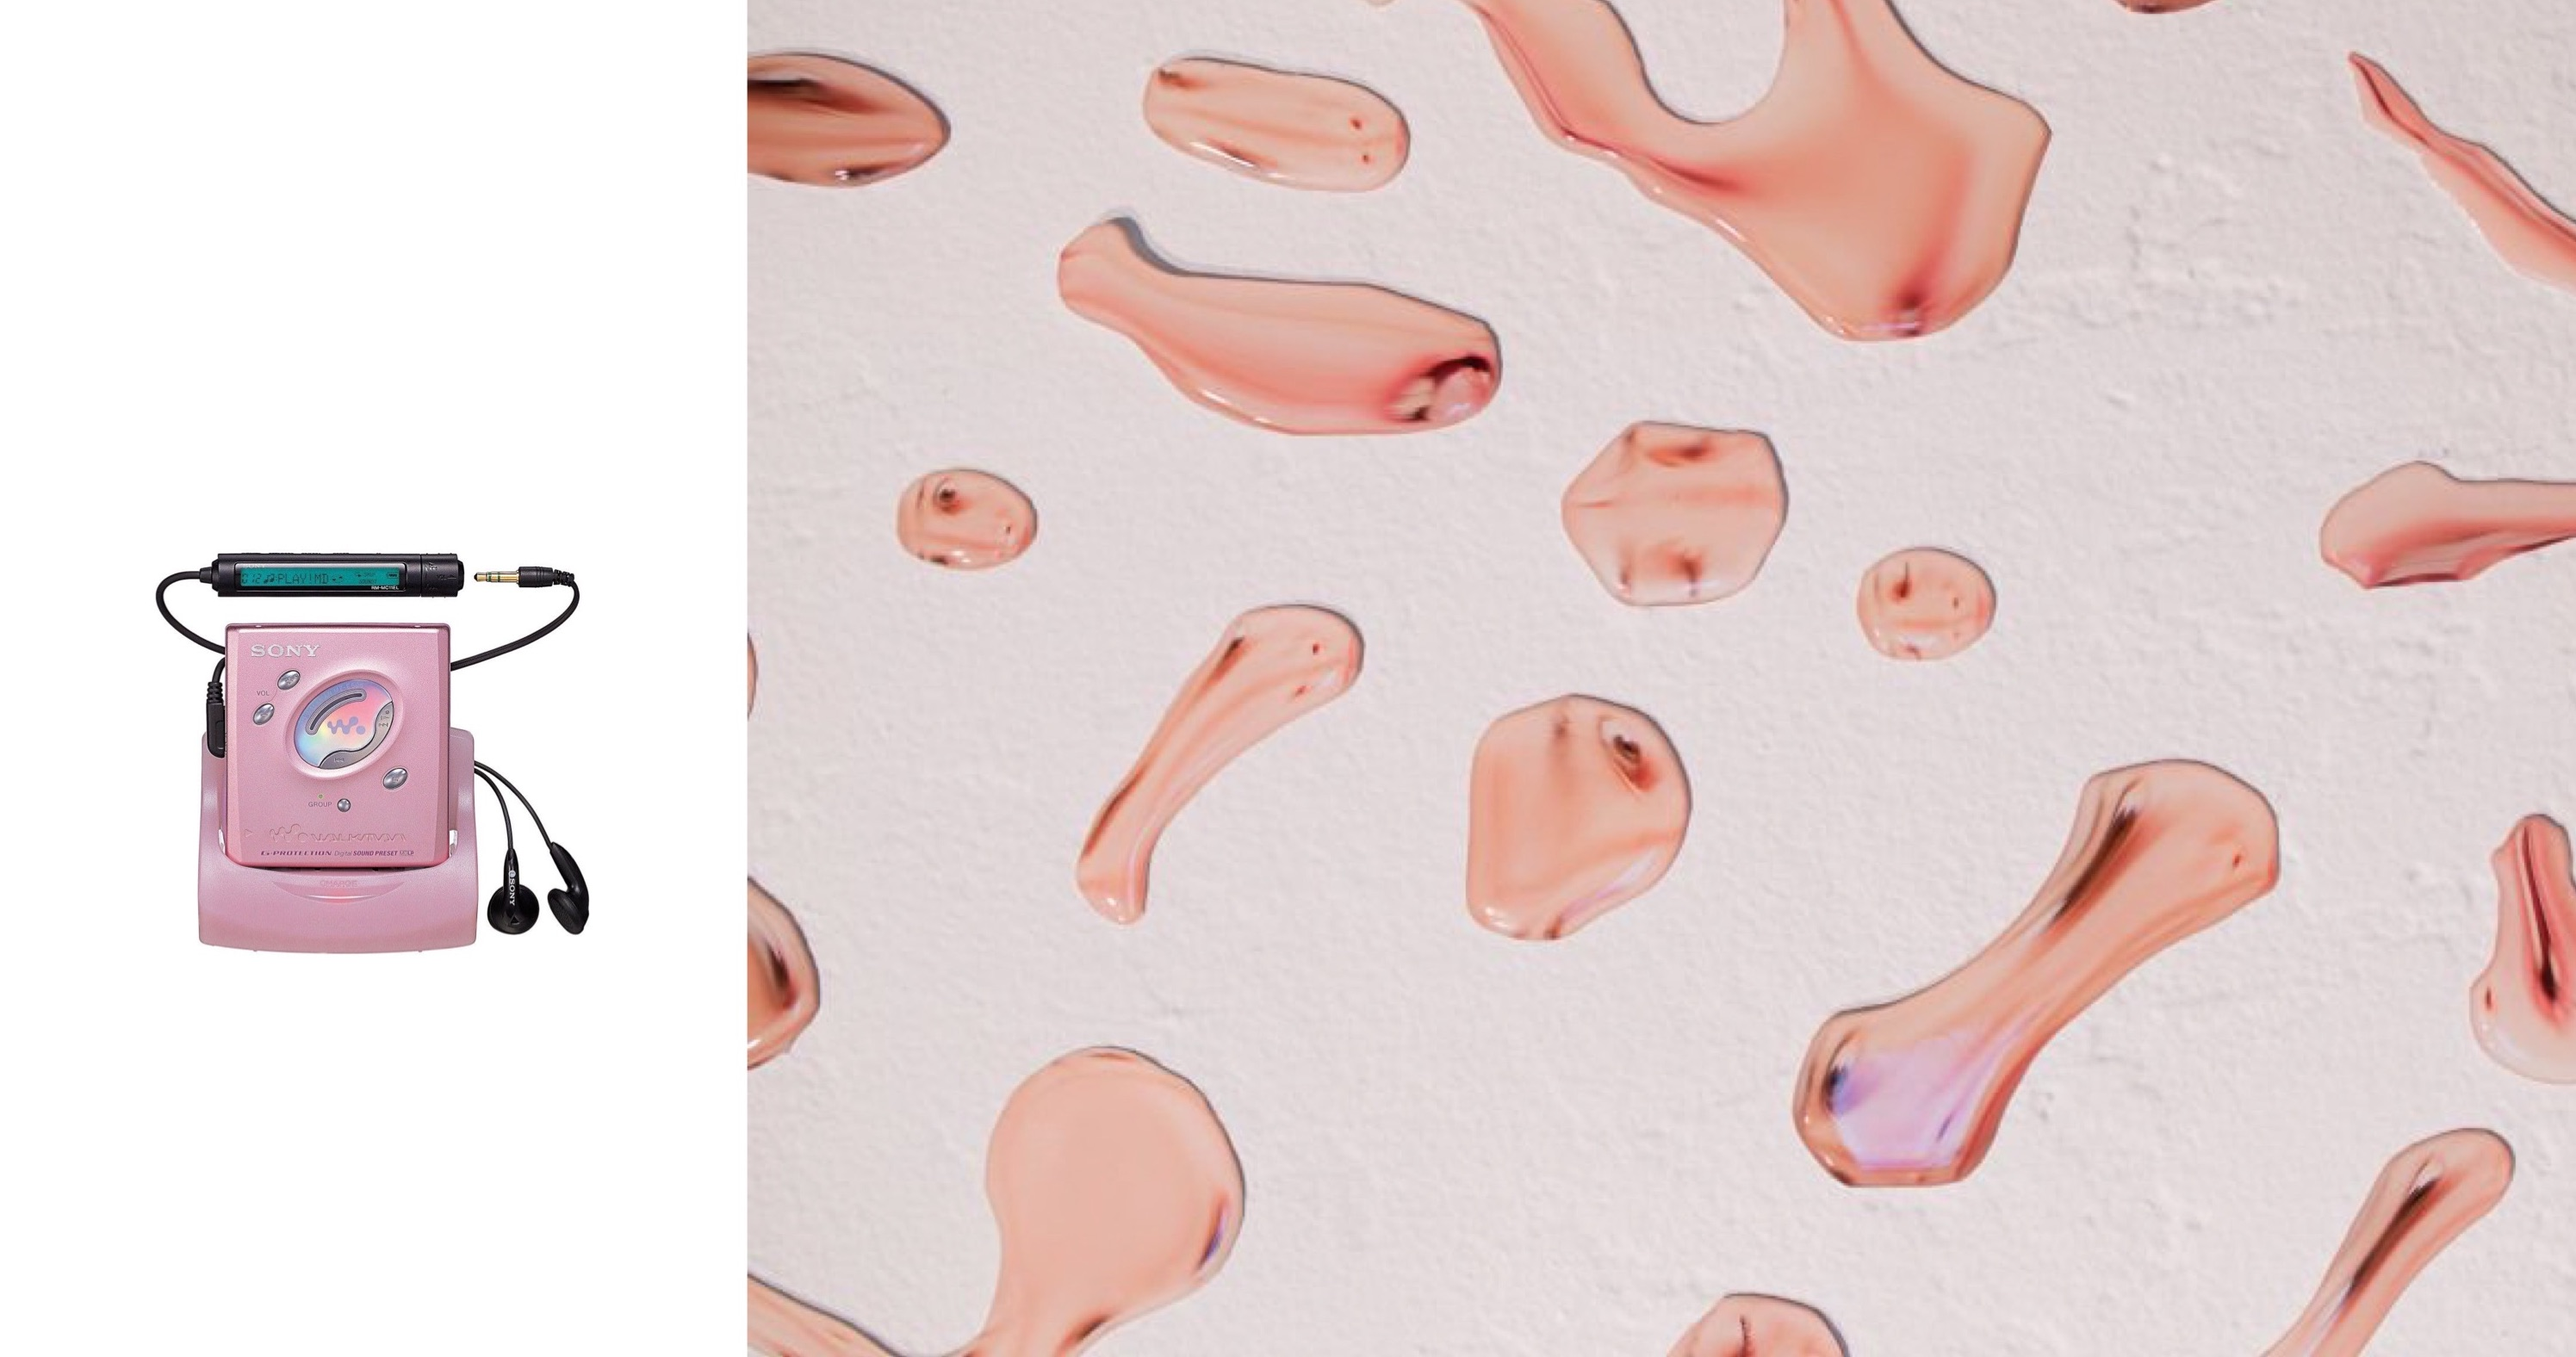
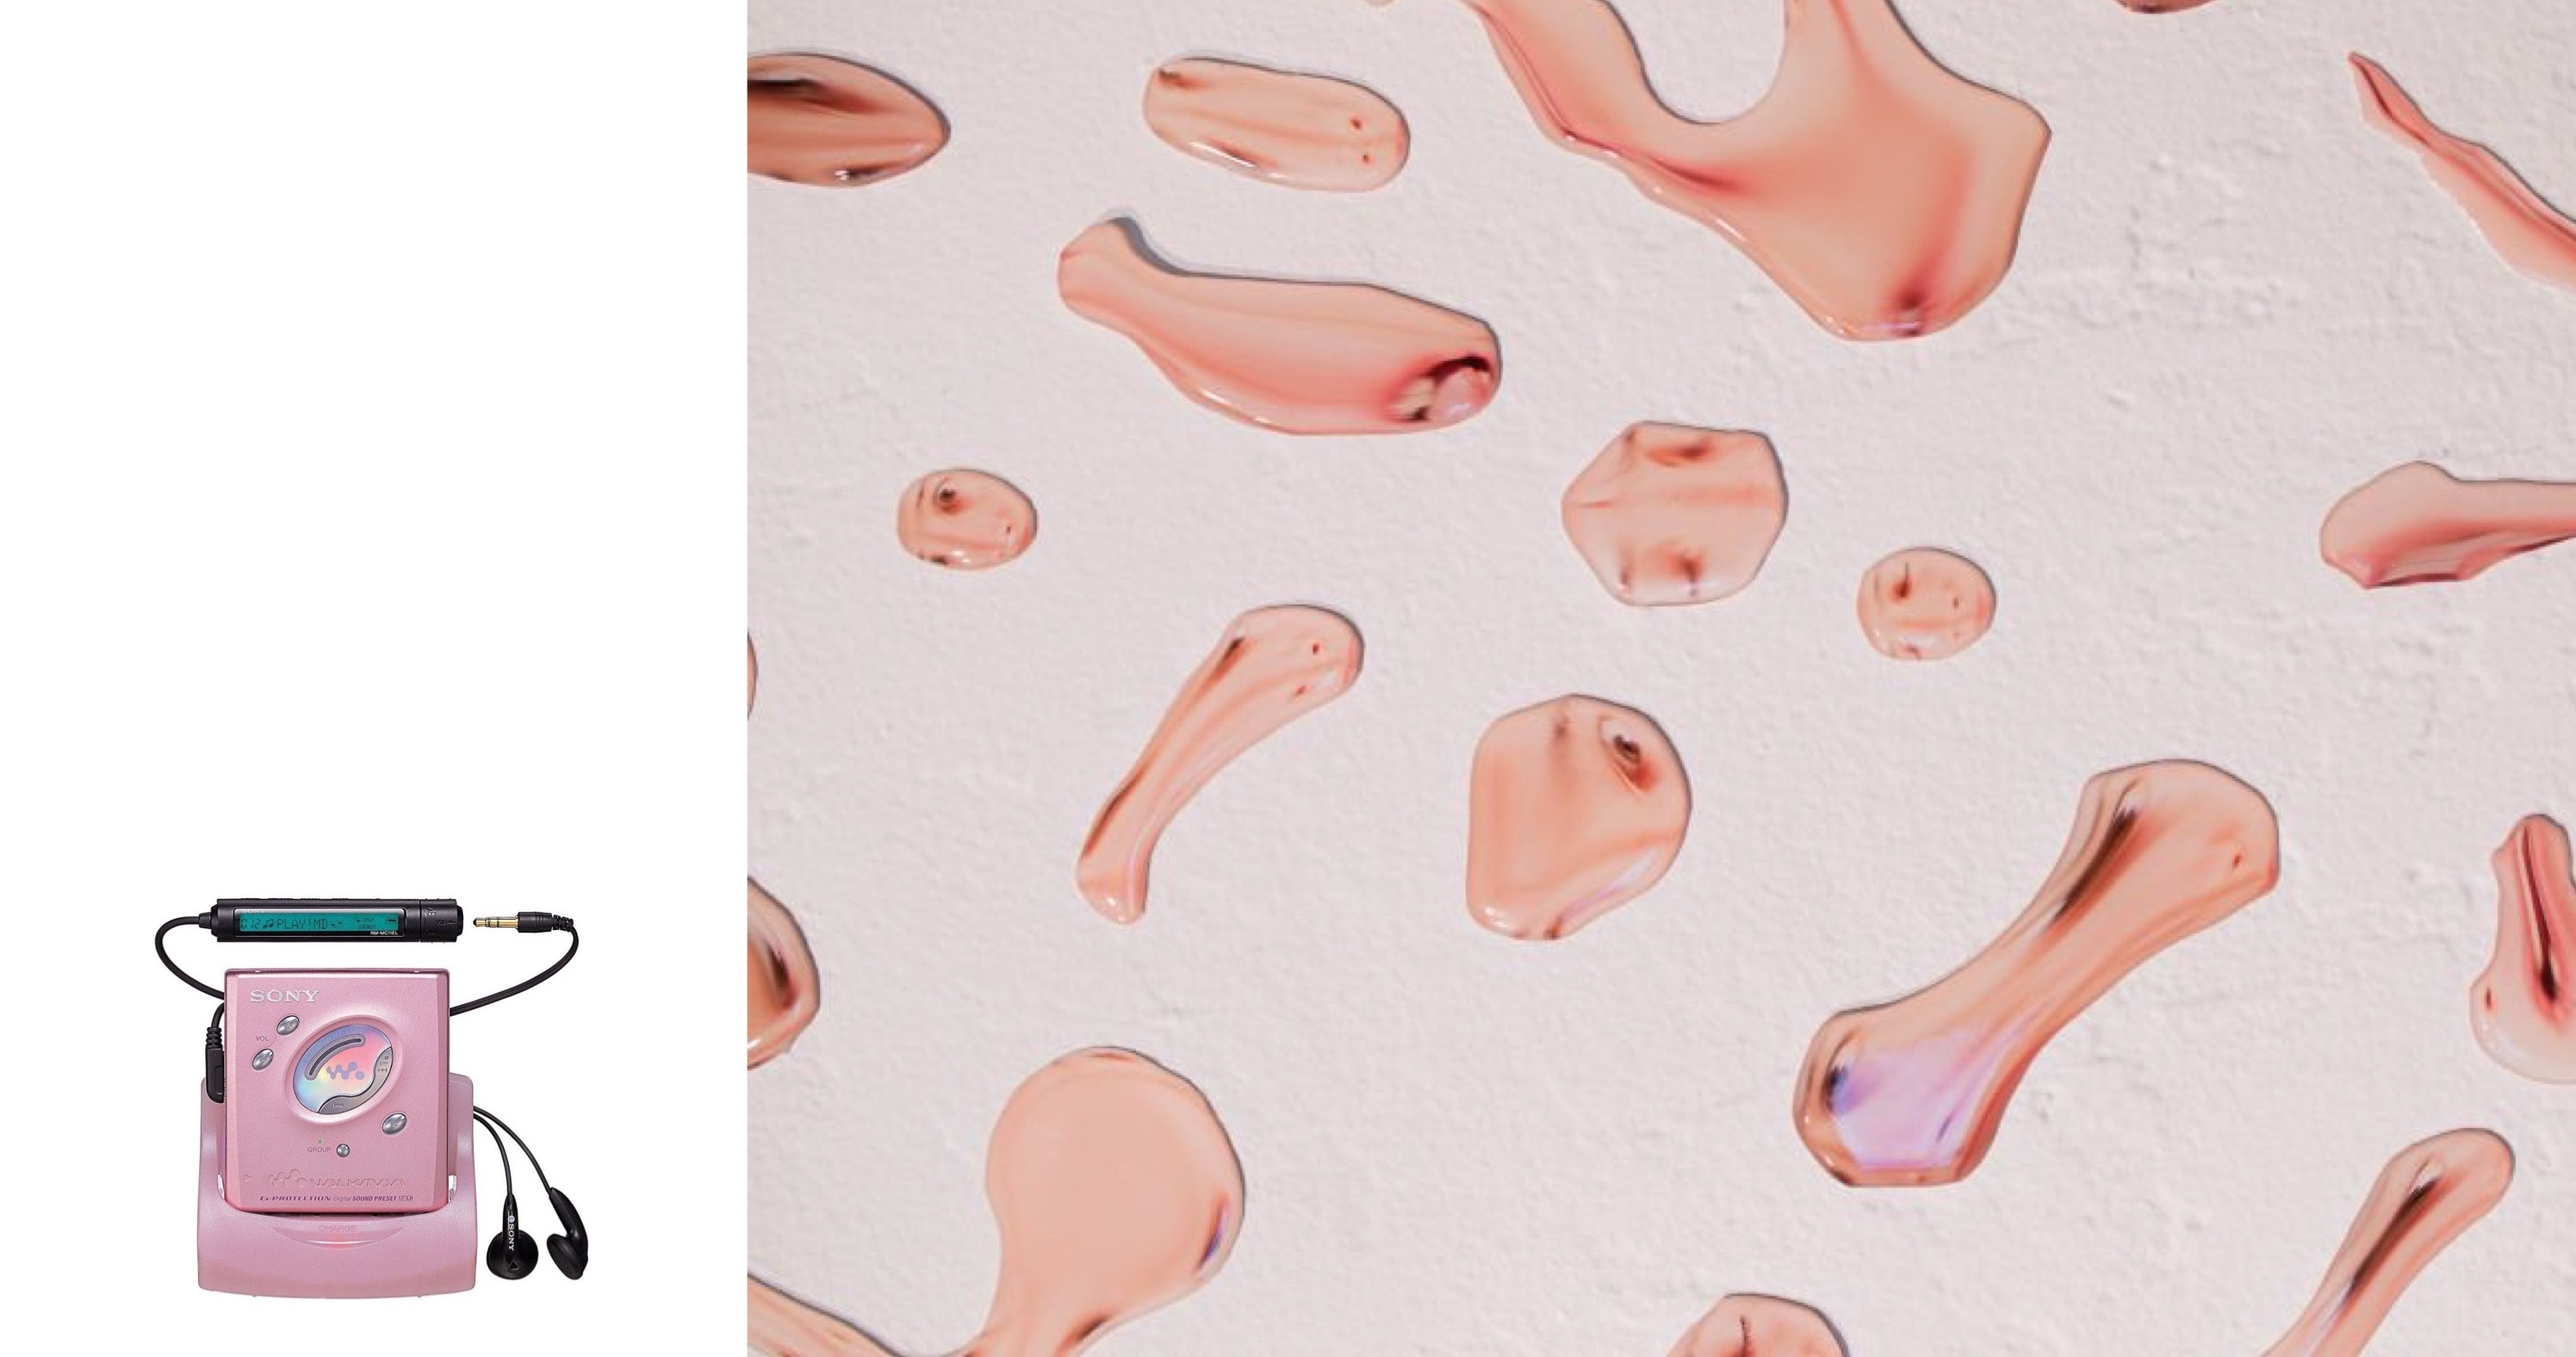
Cleanup (2)
Moved my table (finally)

Changed region(s): [[0.0622, 0.4042, 0.2487, 0.9638]]

diff --git a/A4/compression.html b/A4/compression.html
@@ -21,10 +21,10 @@
             </div>
             
             <div id="swapper-first" style ="display:block;">
-                <table>
+                <table><br><br><br><br>
                     <!--making the table for the first*-->
                     <tr>
-                        <th> FiLE NaME </th>
+                        <th>  FiLE NaME!! </th>
                         <th> C0MPReSSi0N Algorithm</th>
                         <th> BiT RAT3 </th>
                         <th> Original Size </th>
@@ -35,7 +35,7 @@
                         <th> ReSiduAL AuDi0 </th>
                     </tr>
                     <tr>
-                        <td> Gnossienne no. 1 </td>
+                        <td> Gnossienne no.1 </td>
                         <td> Mp3 </td>
                         <td> 96kbps </td>
                         <td> 18.5 MB </td>
@@ -47,7 +47,7 @@
                     </tr>
 
                     <tr>
-                        <td> Gnossienne no. 1 </td>
+                        <td> Gnossienne no.1 </td>
                         <td> M4a </td>
                         <td> 96kbps </td>
                         <td> 18.5 MB </td>
@@ -59,7 +59,7 @@
                     </tr>
 
                     <tr>
-                        <td> Gnossienne no. 1 </td>
+                        <td> Gnossienne no.1 </td>
                         <td> Ac3 </td>
                         <td> 96kbps </td>
                         <td> 18.5 MB </td>
@@ -71,8 +71,8 @@
                     </tr>
 
                     <tr>
-                        <td> Gnossienne no. 1 </td>
-                        <td> Ogg </td>
+                        <td> Gnossienne no.1 </td>
+                        <td> Ogg/Vorbis </td>
                         <td> Low quality </td>
                         <td> 18.5 MB </td>
                         <td> 0.60 MB </td>
@@ -86,10 +86,10 @@
 
             </div>
             <div id="swapper-other" style ="display:none;">
-                <table class="content-table">
+                <table class="content-table"> <br><br><br><br>
                     <!--making the table for idioteque, initial display none but will be switched to*-->
                     <tr>
-                        <th> FiLE NaME </th>
+                        <th> FiLE NaME!! </th>
                         <th> C0MPReSSi0N Algorithm</th>
                         <th> BiT RAT3 </th>
                         <th> Original Size </th>
@@ -137,7 +137,7 @@
 
                     <tr>
                         <td> Idioteque </td>
-                        <td> Ogg </td>
+                        <td> Ogg/Vorbis </td>
                         <td> Low quality </td>
                         <td> 17.7 MB </td>
                         <td> 0.61 MB </td>
@@ -159,6 +159,7 @@
     </audio>
     
 <script>
+    /* tried adding the function playing with icon, in progress*/
     var mySong = document.getElementById("mySong");
     var icon = document.getElementById("icon");
 

diff --git a/A4/style.css b/A4/style.css
@@ -21,7 +21,7 @@
     justify-content: space-between;
 }
 .logo{
-    width: 90px;
+    width: 70px;
     cursor: pointer;
 }
 .navbar ul li{
@@ -40,7 +40,7 @@
 .content{
     width: 100%;
     position: absolute;
-    top: 30%;
+    top: 18%;
 }
 
 .content p{
@@ -48,7 +48,7 @@
     color: #5f5f5f;
     font-weight: 300;
     margin-right: 10px;
-    align-items: center;
+    
 }
 
 .left-col{
@@ -61,7 +61,7 @@
     font-size: 90px;
     text-shadow: 5px 5px #3d8c50;
     color: rgb(160, 247, 190);
-    line-height: 80px;
+    line-height: 90px;
     float: left;
 }
 
@@ -77,8 +77,8 @@
     float: right;
     margin-right: 4%;
     margin-top: 80px;
-    margin-left: 300px;
-    display: block;
+    margin-left: auto;
+    display: flex;
     align-items: right;
 }
 .swapper-first p{
@@ -90,7 +90,8 @@
 
 .swapper-other{
     float: right;
-    margin-right: 4%;
+    margin-right: 5%;
+    margin-left: auto;
     margin-top: 80px;
     display: flex;
     align-items: right;
@@ -108,6 +109,7 @@
 }
 
 table {
+    transform: translate(105px,0px);
     width: 125px;
 }
 
@@ -134,7 +136,7 @@ table, th, td {
     border-bottom: 1px solid rgb(239, 206, 243);
     border-left: rgb(239, 206, 243);
     border-bottom: 2px solid rgb(239, 206, 243);
-    border-radius: 5px 5px 0 0;
+    border-radius: 10px 4px 0 0;
     overflow: hidden;
     box-shadow: 0 0 20px rgba(0, 0, 0, 0.17);
     text-decoration: none;
